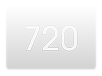
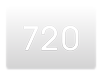
Added support for DVD Audio\Video BitRate. Added support for ScanType. Added extra MetaBrowser\MY Movies Translations. replace HDType MI images, Set core timeout for MI to 30 seconds. -Chip Upped MediaInfoProvider version to 1.2.0.3 -Chip

diff --git a/MediaInfoProvider/MediaInfoProvider.cs b/MediaInfoProvider/MediaInfoProvider.cs
@@ -83,12 +83,12 @@ namespace MediaInfoProvider
                         Logger.ReportInfo("Mediainfo not scanning known bad file: "+filename);
                         return;
                     }
-                    int timeout = Kernel.LoadContext == MBLoadContext.Core ? 1000 : Plugin.ServiceTimeout; //only allow 1 second in core but configurable for service
+                    int timeout = Kernel.LoadContext == MBLoadContext.Core ? 30000 : Plugin.ServiceTimeout; //only allow 30 seconds in core but configurable for service
                     if (filename != null)
                     {
                         try
                         {
-                            Async.RunWithTimeout(() => video.MediaInfo = Merge(video.MediaInfo, GetMediaInfo(filename)), timeout);
+                            Async.RunWithTimeout(() => video.MediaInfo = Merge(video.MediaInfo, GetMediaInfo(filename,video.MediaType)), timeout);
                         }
                         catch (TimeoutException)
                         {
@@ -134,6 +134,7 @@ namespace MediaInfoProvider
             if (original.VideoBitRate == 0) original.VideoBitRate = acquired.VideoBitRate;
             if (original.VideoCodec == "") original.VideoCodec = acquired.VideoCodec;
             if (original.VideoFPS == "") original.VideoFPS = acquired.VideoFPS;
+            if (original.ScanType == "") original.ScanType = acquired.ScanType;
             if (original.Width == 0) original.Width = acquired.Width;
             return original;
         }
@@ -221,15 +222,17 @@ namespace MediaInfoProvider
         }
 
 
-    private MediaInfoData GetMediaInfo(string location)
+    private MediaInfoData GetMediaInfo(string location, MediaType mediaType)
         {
-            Logger.ReportInfo("getting media info from " + location);
+            Logger.ReportInfo("Getting media info from " + location);
             MediaInfo mediaInfo = new MediaInfo();
             mediaInfo.Option("ParseSpeed", "0.2");
             int i = mediaInfo.Open(location);
             MediaInfoData mediaInfoData = null;
             if (i != 0)
             {
+                string subtitles = mediaInfo.Get(StreamKind.General, 0, "Text_Language_List");
+                string scanType = mediaInfo.Get(StreamKind.Video, 0, "ScanType");
                 int width;
                 Int32.TryParse(mediaInfo.Get(StreamKind.Video, 0, "Width"), out width);
                 int height;
@@ -238,12 +241,10 @@ namespace MediaInfoProvider
                 Int32.TryParse(mediaInfo.Get(StreamKind.Video, 0, "BitRate"), out videoBitRate);
                
                 int audioBitRate;
-                string aBitRate;
-                int ABindex = mediaInfo.Get(StreamKind.Audio, 0, "BitRate").IndexOf(" /");
+                string aBitRate = mediaInfo.Get(StreamKind.Audio, 0, "BitRate");
+                int ABindex = aBitRate.IndexOf(" /");
                 if (ABindex > 0)
-                    aBitRate = mediaInfo.Get(StreamKind.Audio, 0, "BitRate").Remove(ABindex);
-                else
-                    aBitRate = mediaInfo.Get(StreamKind.Audio, 0, "BitRate");
+                    aBitRate = aBitRate.Remove(ABindex);
                 Int32.TryParse(aBitRate, out audioBitRate);
 
                 int runTime;
@@ -251,23 +252,20 @@ namespace MediaInfoProvider
                 int streamCount;
                 Int32.TryParse(mediaInfo.Get(StreamKind.Audio, 0, "StreamCount"), out streamCount);
 
-                string audioChannels;
-                int ACindex = mediaInfo.Get(StreamKind.Audio, 0, "Channel(s)").IndexOf(" /");                
+                string audioChannels = mediaInfo.Get(StreamKind.Audio, 0, "Channel(s)");
+                int ACindex = audioChannels.IndexOf(" /");                
                 if (ACindex > 0)
-                    audioChannels = mediaInfo.Get(StreamKind.Audio, 0, "Channel(s)").Remove(ACindex);
-                else
-                    audioChannels = mediaInfo.Get(StreamKind.Audio, 0, "Channel(s)");
+                    audioChannels = audioChannels.Remove(ACindex);
 					
                 string audioLanguages = mediaInfo.Get(StreamKind.General, 0, "Audio_Language_List");
-                string subtitles = mediaInfo.Get(StreamKind.General, 0, "Text_Language_List");
+                
                 string videoFrameRate = mediaInfo.Get(StreamKind.Video, 0, "FrameRate");
 
-                string audioProfile;
-                int APindex = mediaInfo.Get(StreamKind.Audio, 0, "Format_Profile").IndexOf(" /");
-                if (APindex > 0)                
-                    audioProfile = mediaInfo.Get(StreamKind.Audio, 0, "Format_Profile").Remove(APindex);                
-                else
-                    audioProfile = mediaInfo.Get(StreamKind.Audio, 0, "Format_Profile");
+                string audioProfile = mediaInfo.Get(StreamKind.Audio, 0, "Format_Profile");
+                int APindex = audioProfile.IndexOf(" /");
+                if (APindex > 0)
+                    audioProfile = audioProfile.Remove(APindex);
+                
 
 
                 mediaInfoData = new MediaInfoData
@@ -286,12 +284,42 @@ namespace MediaInfoProvider
                     AudioProfile = audioProfile.Trim(),
                     VideoFPS = videoFrameRate,
                     AudioLanguages = audioLanguages,
-                    Subtitles = subtitles
+                    Subtitles = subtitles,
+                    ScanType = scanType
                 };
             }
             else
             {
                 Logger.ReportInfo("Could not extract media information from " + location);
+            }
+            if (mediaType == MediaType.DVD && i != 0)
+            {
+                mediaInfo.Close();
+                location = location.Replace("0.IFO", "1.vob");
+                Logger.ReportInfo("Getting additional media info from " + location);
+                mediaInfo.Option("ParseSpeed", "0.0");
+                i = mediaInfo.Open(location);
+                if (i != 0)
+                {
+                    int videoBitRate;
+                    Int32.TryParse(mediaInfo.Get(StreamKind.Video, 0, "BitRate"), out videoBitRate);
+
+                    int audioBitRate;
+                    string aBitRate = mediaInfo.Get(StreamKind.Audio, 0, "BitRate");
+                    int ABindex = aBitRate.IndexOf(" /");
+                    if (ABindex > 0)
+                        aBitRate = aBitRate.Remove(ABindex);
+                    Int32.TryParse(aBitRate, out audioBitRate);
+                    string scanType = mediaInfo.Get(StreamKind.Video, 0, "ScanType");
+
+                    mediaInfoData.AudioBitRate = audioBitRate;
+                    mediaInfoData.VideoBitRate = videoBitRate;
+                    mediaInfoData.ScanType = scanType;
+                }
+                else
+                {
+                    Logger.ReportInfo("Could not extract additional media info from " + location);
+                }
             }
             mediaInfo.Close();
             return mediaInfoData;

diff --git a/MediaBrowser/Library/Providers/TVDB/LocalEpisodeProvider.cs b/MediaBrowser/Library/Providers/TVDB/LocalEpisodeProvider.cs
@@ -150,18 +150,24 @@ namespace MediaBrowser.Library.Providers.TVDB {
                     switch (audio.ToLower())
                     {
                         case "dts-es":
+                        case "dts-es matrix":
+                        case "dts-es discrete":
                             episode.MediaInfo.AudioFormat = "DTS";
                             episode.MediaInfo.AudioProfile = "ES";
                             break;
                         case "dts-hd hra":
+                        case "dts-hd high resolution":
                             episode.MediaInfo.AudioFormat = "DTS";
                             episode.MediaInfo.AudioProfile = "HRA";
                             break;
                         case "dts-hd ma":
+                        case "dts-hd master":
                             episode.MediaInfo.AudioFormat = "DTS";
                             episode.MediaInfo.AudioProfile = "MA";
                             break;
                         case "dolby digital":
+                        case "dolby digital surround ex":
+                        case "dolby surround":
                             episode.MediaInfo.AudioFormat = "AC-3";
                             break;
                         case "dolby digital plus":
@@ -174,6 +180,8 @@ namespace MediaBrowser.Library.Providers.TVDB {
                         case "mp2":
                             episode.MediaInfo.AudioFormat = "MPEG Audio";
                             episode.MediaInfo.AudioProfile = "Layer 2";
+                            break;
+                        case "other":
                             break;
                         default:
                             episode.MediaInfo.AudioFormat = audio;
@@ -209,6 +217,7 @@ namespace MediaBrowser.Library.Providers.TVDB {
             if (episode.MediaInfo.VideoBitRate == 0) episode.MediaInfo.VideoBitRate = metadataDoc.SafeGetInt32("Item/MediaInfo/Video/BitRate");
             if (episode.MediaInfo.Height == 0) episode.MediaInfo.Height = metadataDoc.SafeGetInt32("Item/MediaInfo/Video/Height");
             if (episode.MediaInfo.Width == 0) episode.MediaInfo.Width = metadataDoc.SafeGetInt32("Item/MediaInfo/Video/Width");
+            if (string.IsNullOrEmpty(episode.MediaInfo.ScanType)) episode.MediaInfo.ScanType = metadataDoc.SafeGetString("Item/MediaInfo/Video/ScanType", "");
             if (string.IsNullOrEmpty(episode.MediaInfo.VideoFPS)) episode.MediaInfo.VideoFPS = metadataDoc.SafeGetString("Item/MediaInfo/Video/FrameRate", "");
             if (episode.MediaInfo.RunTime == 0) episode.MediaInfo.RunTime = metadataDoc.SafeGetInt32("Item/MediaInfo/Video/Duration");
             if (episode.MediaInfo.RunTime > 0) episode.RunningTime = episode.MediaInfo.RunTime;

diff --git a/MediaBrowser/Library/Providers/MovieProviderFromXml.cs b/MediaBrowser/Library/Providers/MovieProviderFromXml.cs
@@ -260,18 +260,24 @@ namespace MediaBrowser.Library.Providers
                         switch (audio.ToLower())
                         {
                             case "dts-es":
+                            case "dts-es matrix":
+                            case "dts-es discrete":
                                 movie.MediaInfo.AudioFormat = "DTS";
                                 movie.MediaInfo.AudioProfile = "ES";
                                 break;
                             case "dts-hd hra":
+                            case "dts-hd high resolution":
                                 movie.MediaInfo.AudioFormat = "DTS";
                                 movie.MediaInfo.AudioProfile = "HRA";
                                 break;
                             case "dts-hd ma":
+                            case "dts-hd master":
                                 movie.MediaInfo.AudioFormat = "DTS";
                                 movie.MediaInfo.AudioProfile = "MA";
                                 break;
                             case "dolby digital":
+                            case "dolby digital surround ex":
+                            case "dolby surround":
                                 movie.MediaInfo.AudioFormat = "AC-3";
                                 break;
                             case "dolby digital plus":
@@ -284,6 +290,8 @@ namespace MediaBrowser.Library.Providers
                             case "mp2":
                                 movie.MediaInfo.AudioFormat = "MPEG Audio";
                                 movie.MediaInfo.AudioProfile = "Layer 2";
+                                break;
+                            case "other":
                                 break;
                             default:
                                 movie.MediaInfo.AudioFormat = audio;
@@ -319,6 +327,7 @@ namespace MediaBrowser.Library.Providers
                 if (movie.MediaInfo.VideoBitRate == 0) movie.MediaInfo.VideoBitRate = doc.SafeGetInt32("Title/MediaInfo/Video/BitRate");
                 if (movie.MediaInfo.Height == 0) movie.MediaInfo.Height = doc.SafeGetInt32("Title/MediaInfo/Video/Height");
                 if (movie.MediaInfo.Width == 0) movie.MediaInfo.Width = doc.SafeGetInt32("Title/MediaInfo/Video/Width");
+                if (string.IsNullOrEmpty(movie.MediaInfo.ScanType)) movie.MediaInfo.ScanType = doc.SafeGetString("Title/MediaInfo/Video/ScanType", "");
                 if (string.IsNullOrEmpty(movie.MediaInfo.VideoFPS)) movie.MediaInfo.VideoFPS = doc.SafeGetString("Title/MediaInfo/Video/FrameRate","");
                 if (movie.MediaInfo.RunTime == 0)
                 {

diff --git a/MediaBrowser/Resources.Designer.cs b/MediaBrowser/Resources.Designer.cs
@@ -1,7 +1,7 @@
 //------------------------------------------------------------------------------
 // <auto-generated>
 //     This code was generated by a tool.
-//     Runtime Version:2.0.50727.4952
+//     Runtime Version:2.0.50727.5420
 //
 //     Changes to this file may cause incorrect behavior and will be lost if
 //     the code is regenerated.
@@ -1490,9 +1490,37 @@ namespace MediaBrowser {
             }
         }
         
+        internal static System.Drawing.Bitmap hdtype_1080i {
+            get {
+                object obj = ResourceManager.GetObject("hdtype_1080i", resourceCulture);
+                return ((System.Drawing.Bitmap)(obj));
+            }
+        }
+        
+        internal static System.Drawing.Bitmap hdtype_1080p {
+            get {
+                object obj = ResourceManager.GetObject("hdtype_1080p", resourceCulture);
+                return ((System.Drawing.Bitmap)(obj));
+            }
+        }
+        
         internal static System.Drawing.Bitmap hdtype_720 {
             get {
                 object obj = ResourceManager.GetObject("hdtype_720", resourceCulture);
+                return ((System.Drawing.Bitmap)(obj));
+            }
+        }
+        
+        internal static System.Drawing.Bitmap hdtype_720i {
+            get {
+                object obj = ResourceManager.GetObject("hdtype_720i", resourceCulture);
+                return ((System.Drawing.Bitmap)(obj));
+            }
+        }
+        
+        internal static System.Drawing.Bitmap hdtype_720p {
+            get {
+                object obj = ResourceManager.GetObject("hdtype_720p", resourceCulture);
                 return ((System.Drawing.Bitmap)(obj));
             }
         }

diff --git a/MediaBrowser/Library/Entities/MediaInfoData.cs b/MediaBrowser/Library/Entities/MediaInfoData.cs
@@ -38,6 +38,8 @@ namespace MediaBrowser.Library.Entities
         public string Subtitles = "";
         [Persist]
         public string VideoFPS = "";
+        [Persist]
+        public string ScanType = "";
 
         string SizeStr
         {
@@ -148,6 +150,31 @@ namespace MediaBrowser.Library.Entities
             {
                 if (Height > 0 && Width > 0)
                     return string.Format("{0}x{1}", this.Width, this.Height);
+                else
+                    return "";
+            }
+        }
+
+        public string ScanTypeString
+        {
+            get
+            {
+                if (this != Empty)
+                    return string.Format("{0}", this.ScanType);
+                else
+                    return "";
+            }
+        }
+        public string ScanTypeChar
+        {
+            get
+            {
+                if (this != Empty)
+                {
+                    if (this.ScanType == "Progressive") return "p";
+                    if (this.ScanType == "Interlaced") return "i";
+                    else return "";
+                }
                 else
                     return "";
             }

diff --git a/MediaInfoProvider/Plugin.cs b/MediaInfoProvider/Plugin.cs
@@ -11,7 +11,7 @@ namespace MediaInfoProvider {
     public class Plugin : BasePlugin {
 
         internal const string PluginName = "MediaInfo Provider";
-        internal const string PluginDescription = "This plugin uses the MediaInfo project to provide rich information about your media, such as codecs, aspect ratio, resolution, etc..\n\nFolder rips, ISO's and WTV files are currently not supported.\n\nThis version includes MediaInfo.dll version " + Plugin.includedMediaInfoDLL + ".";
+        internal const string PluginDescription = "This plugin uses the MediaInfo project to provide rich information about your media, such as codecs, aspect ratio, resolution, etc..\n\nHDDVD Folder rips, ISO's and WTV files are currently not supported.\n\nThis version includes MediaInfo.dll version " + Plugin.includedMediaInfoDLL + ".";
         internal const string includedMediaInfoDLL = "0.7.41.0";
         public static PluginConfiguration<PluginOptions> PluginOptions { get; set; }
         public static int ServiceTimeout = 12000;

diff --git a/MediaInfoProvider/Properties/AssemblyInfo.cs b/MediaInfoProvider/Properties/AssemblyInfo.cs
@@ -34,8 +34,8 @@ using MediaInfoProvider;
 
 
 
-[assembly: AssemblyVersion("1.2.0.2")]
-[assembly: AssemblyFileVersion("1.2.0.2")]
+[assembly: AssemblyVersion("1.2.0.3")]
+[assembly: AssemblyFileVersion("1.2.0.3")]
 
 [assembly: AssemblyTitle(Plugin.PluginName)]
 [assembly: AssemblyDescription(Plugin.PluginDescription)]

diff --git a/MediaBrowser/Code/ModelItems/Item.cs b/MediaBrowser/Code/ModelItems/Item.cs
@@ -231,7 +231,7 @@ namespace MediaBrowser.Library
             get
             {
 
-                return Helper.GetMediaInfoImage("HDType_" + this.HDType.ToString());
+                return Helper.GetMediaInfoImage("HDType_" + this.HDType.ToString() + this.MediaInfo.ScanTypeChar);
             }
         }
 
